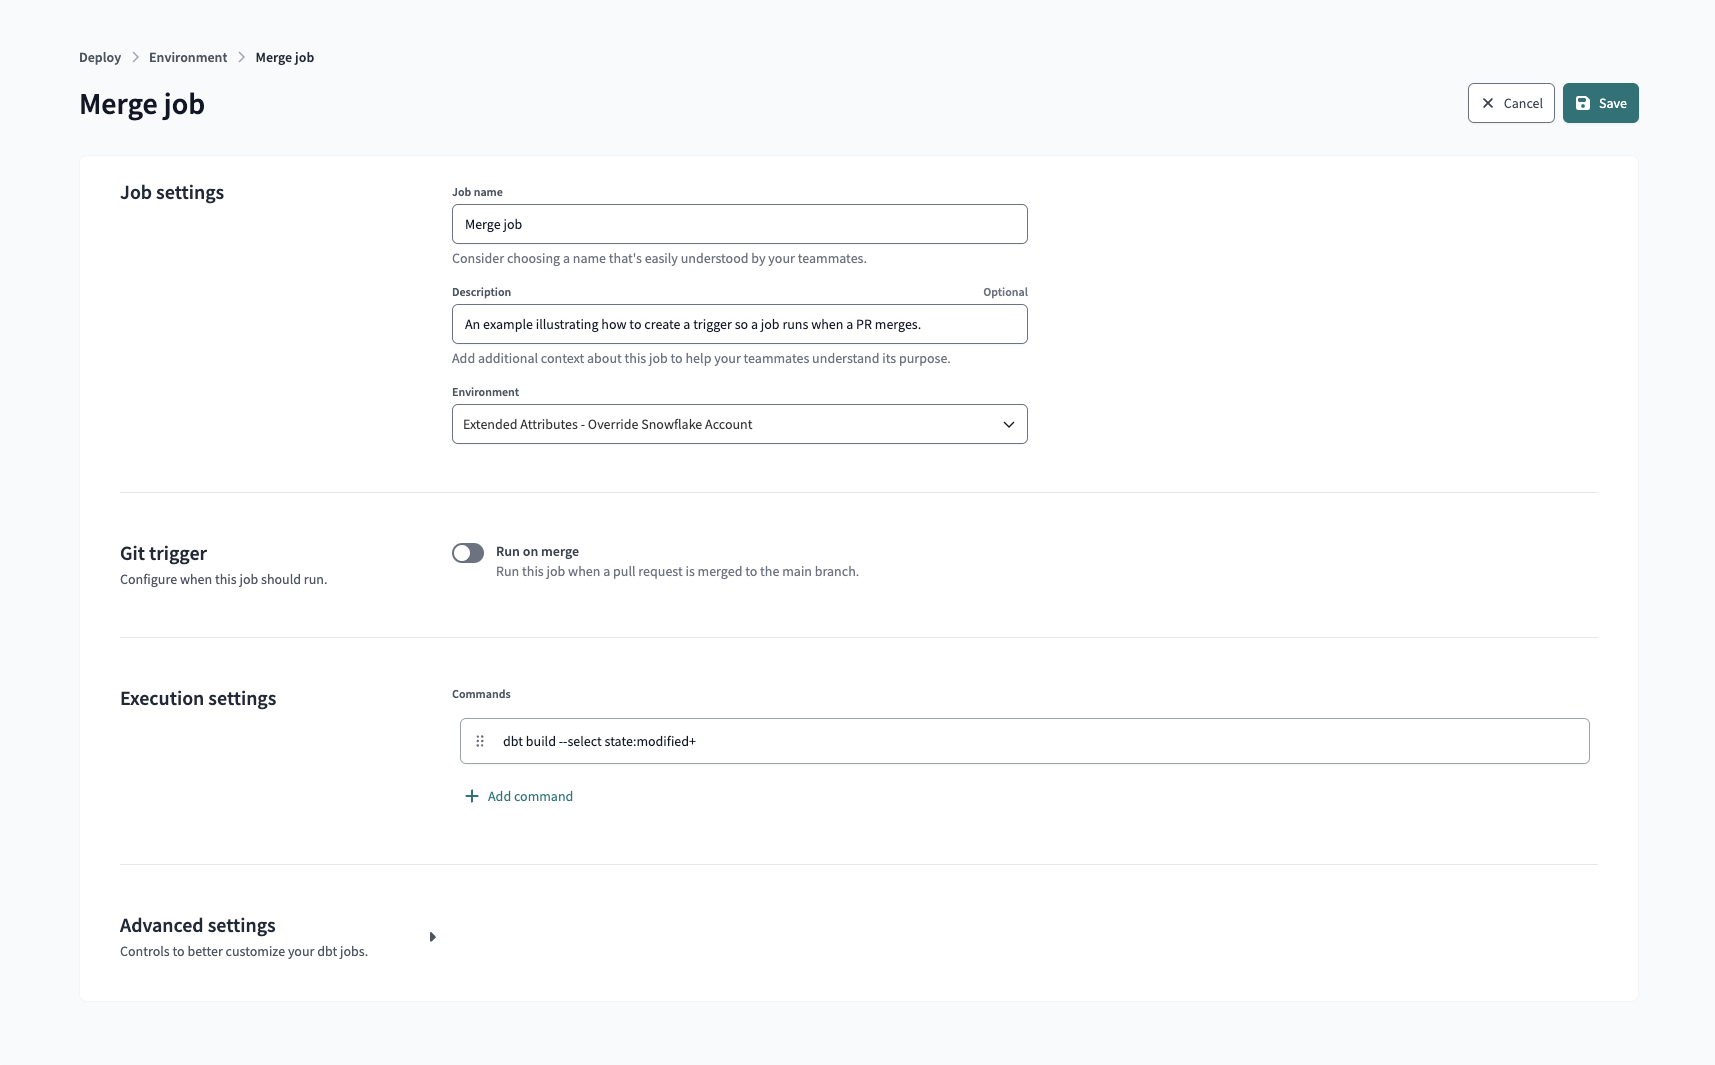
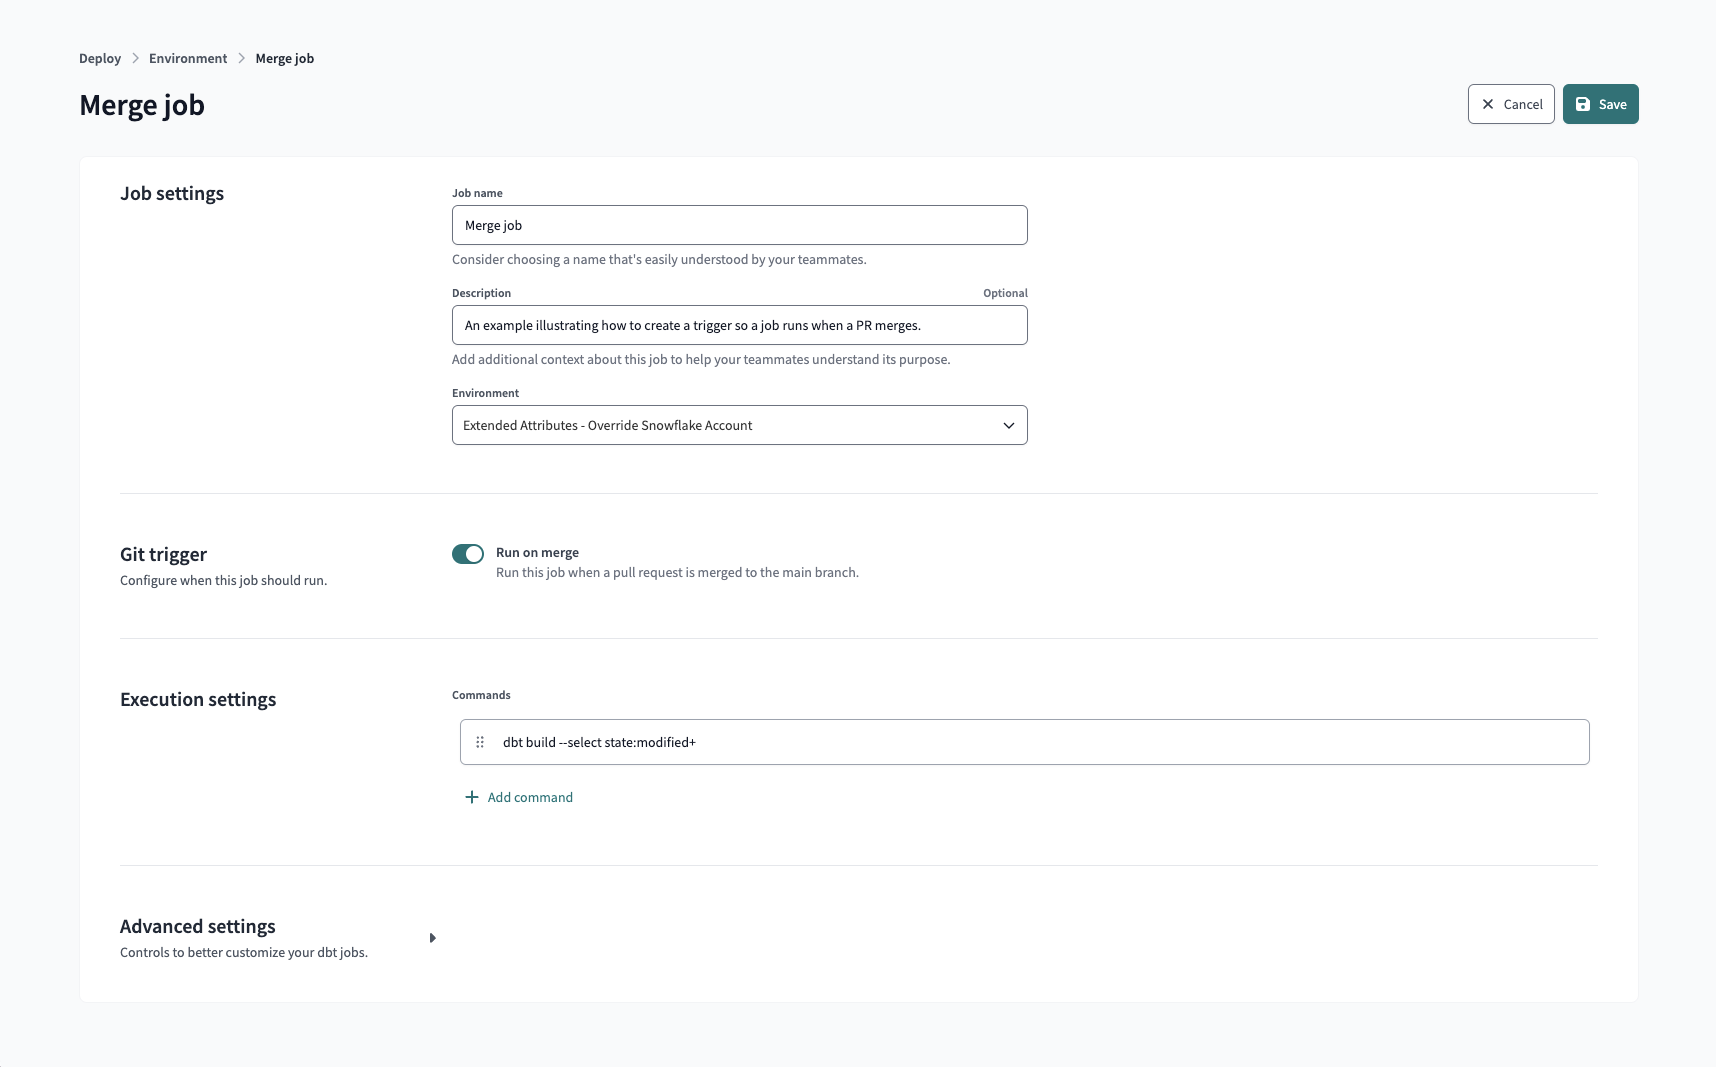
Update stale screenshot

diff --git a/website/docs/docs/deploy/ci-jobs.md b/website/docs/docs/deploy/ci-jobs.md
@@ -90,7 +90,7 @@ Create a job that dbt Cloud will invoke when a pull request merges in your Git r
     - **Job name** &mdash; Specify the name for the merge job.
     - **Description** &mdash; Provide a descripion about the job. 
     - **Environment** &mdash; By default, it’s set to your production environment.
-1. In the **Git trigger** section, enable **Run on merge** to run this job when a PR merges (to the main branch) in your Git repo.  
+1. In the **Git trigger** section, the **Run on merge** option is enabled by default. Every time a PR merges (to the main branch) in your Git repo, this job will get triggered to run. 
 1. In the **Execution settings** section, add the dbt commands that you want to invoke when this job runs. By default, it includes the `dbt build --select state:modified+` command. This informs dbt Cloud to build only new or changed models and their downstream dependents. For more [commands](/docs/deploy/job-commands), click **Add command**.
 1. (optional) Options in the **Advanced settings** section: 
     - **Environment variables** &mdash; Define [environment variables](/docs/build/environment-variables) to customize the behavior of your project when this job runs.
